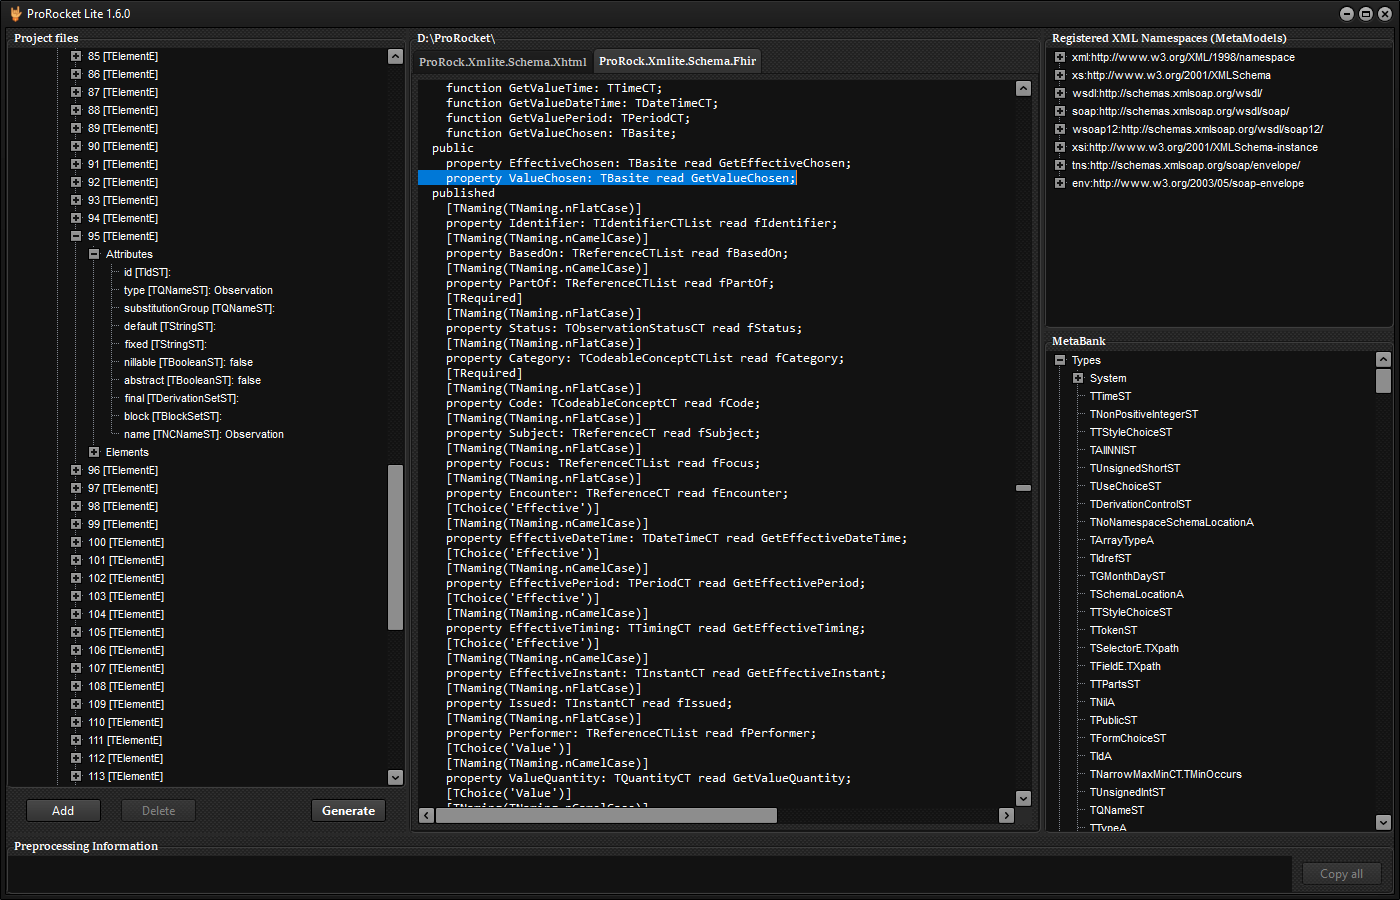
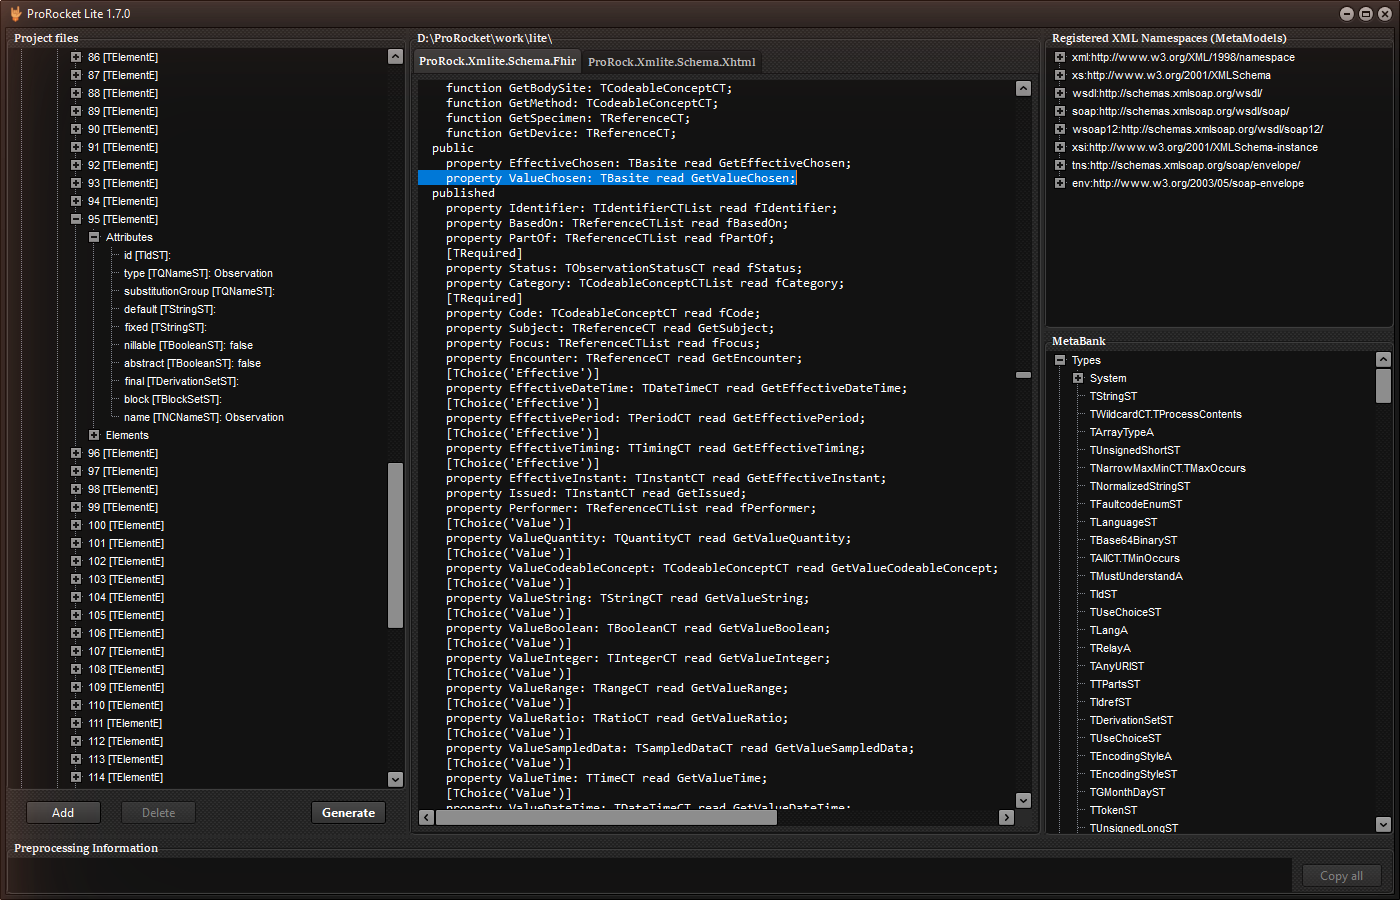
GUI: the Lite screenshot retaken from 1.7.0

diff --git a/docs/gui.md b/docs/gui.md
@@ -12,7 +12,7 @@ icon: lucide/app-window
 The project tree shows each file as ProRock reads it, parsed through ProRock's own XML Schema and WSDL classes. Generate fills the
 code preview with one tab per unit and writes the units into the folder named above it.
 
-[![ProRocket Lite 1.6.0 with the FHIR R4 schemas generated: the Observation element in the project tree, TObservationCT in the code preview with its ValueChosen shortcut and choice members, no problems reported](assets/prorocket-lite.png)](assets/prorocket-lite.png)
+[![ProRocket Lite 1.7.0 with the FHIR R4 schemas generated: the Observation element in the project tree, TObservationCT in the code preview with its ValueChosen shortcut and choice members, no problems reported](assets/prorocket-lite.png)](assets/prorocket-lite.png)
 
 All of FHIR R4 above: 146 resource types in one unit of about 46,000 lines, and no problems reported.
 
